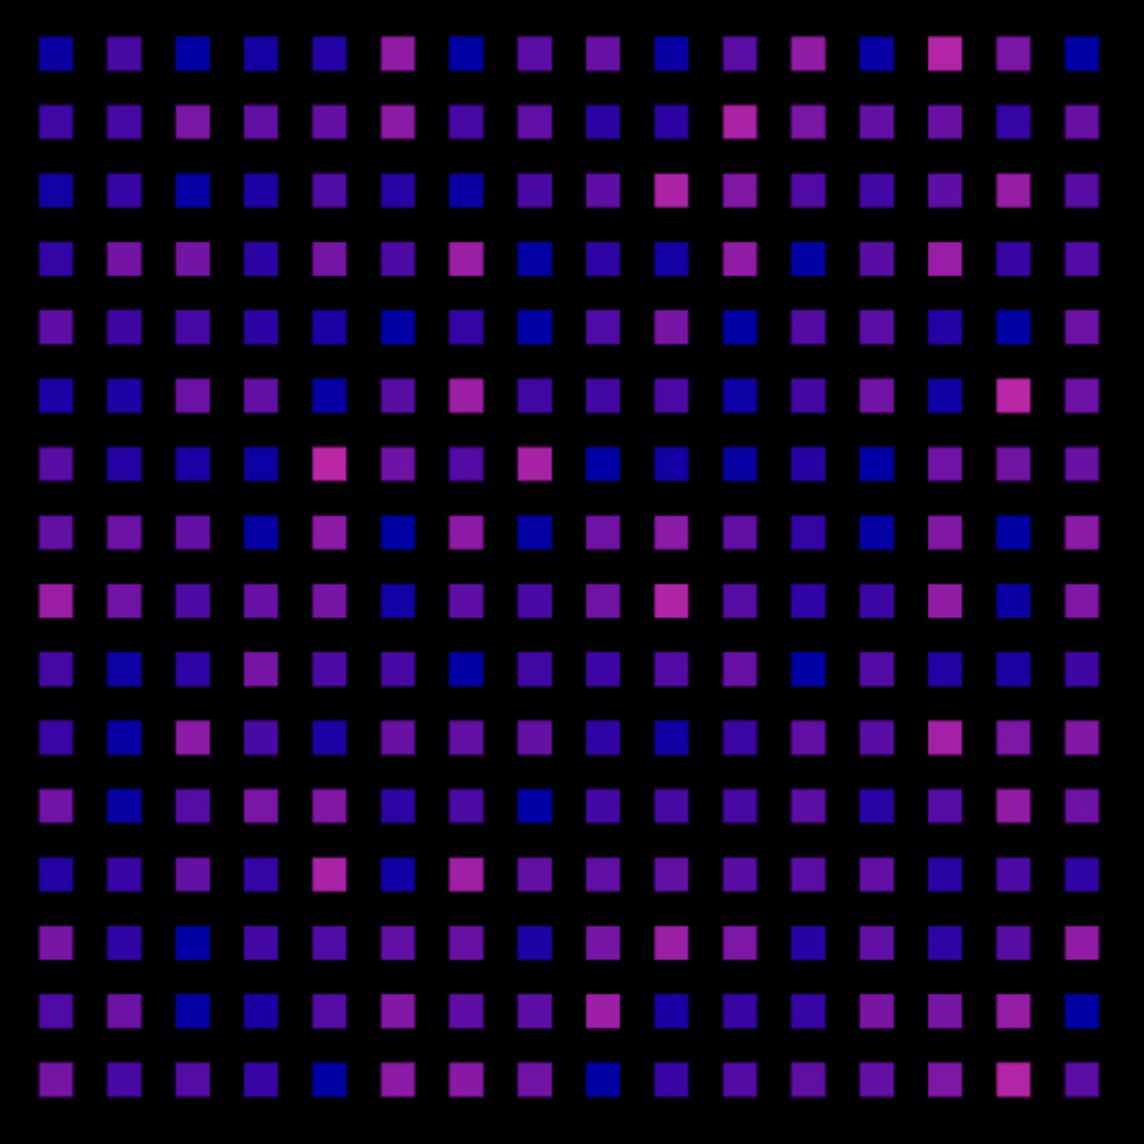
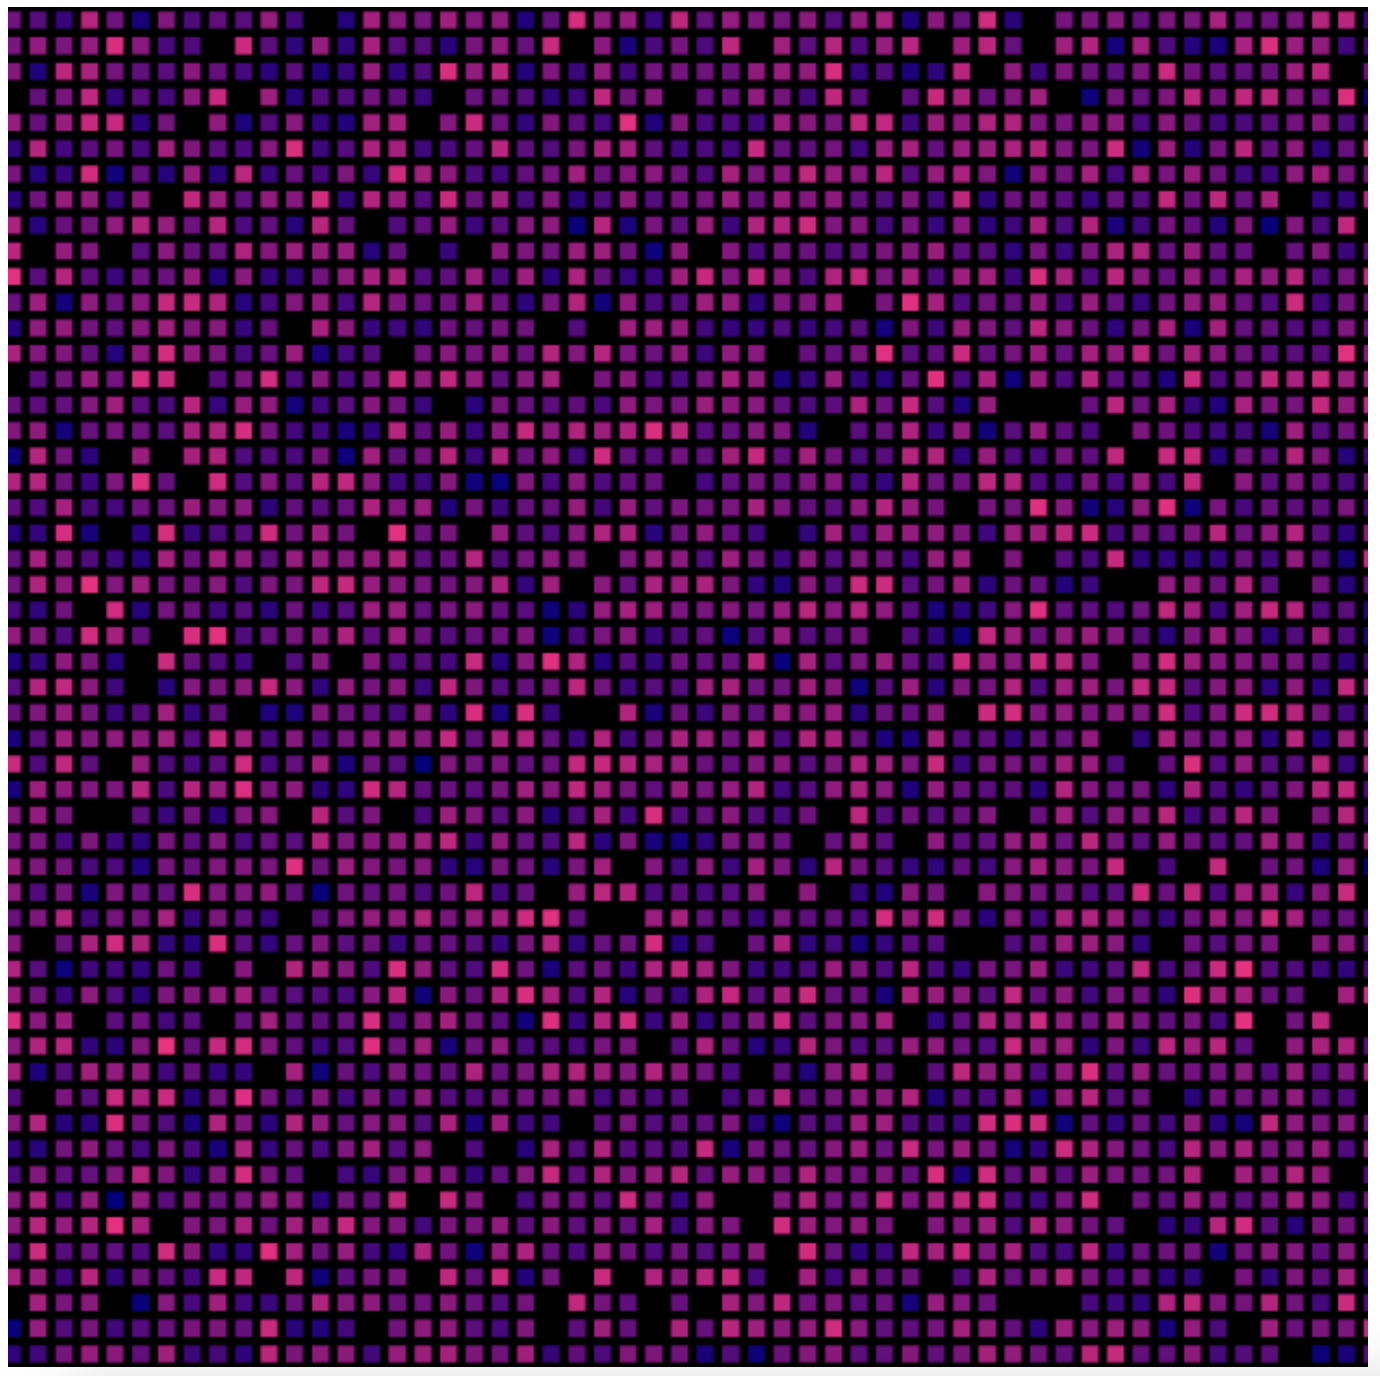
Increase sensor fusion grid size

diff --git a/src/sensor-fusion-demo/init-buffers.js b/src/sensor-fusion-demo/init-buffers.js
@@ -2,7 +2,7 @@
 let cachedColorArrays = [];
 
 function initBuffers(gl, temperature, offlineSensors) {
-	const objCount = 256
+	const objCount = 3025;
 	const positionBuffers = initPositionBuffers(gl,objCount);
 	const colorBuffers = initColorBuffers(gl,objCount, temperature, offlineSensors, false);
 
@@ -178,8 +178,8 @@ function doSensorFusion(gl, objectCount) {
 function initPositionBuffers(gl, objCount) {
 	let positionBuffers = [];
 	let count = 0;
-	let curX = -2.0;
-	let curY = 2.0;
+	let curX = -2.5;
+	let curY = 2.5;
 
 	// TODO: would be nice if everything here was configurable via the simulator UI
 
@@ -196,7 +196,7 @@ function initPositionBuffers(gl, objCount) {
 		gl.bindBuffer(gl.ARRAY_BUFFER, positionBuffer);
 	
 		// Now create an array of positions for the square.
-		const positions = [curX, curY, curX, curY+0.125, curX+0.125, curY, curX+0.125, curY+0.125];
+		const positions = [curX, curY, curX, curY+0.0625, curX+0.0625, curY, curX+0.0625, curY+0.0625];
 	
 		// Now pass the list of positions into WebGL to build the
 		// shape. We do this by creating a Float32Array from the
@@ -206,10 +206,10 @@ function initPositionBuffers(gl, objCount) {
 		positionBuffers[count] = positionBuffer;
 
 		if ((count+1) % gridSize == 0) {
-			curY -= 0.25;
-			curX = -2.0;
+			curY -= 0.09375;
+			curX = -2.5;
 		} else {
-			curX += 0.25;
+			curX += 0.09375;
 		}
 
 		count ++;
